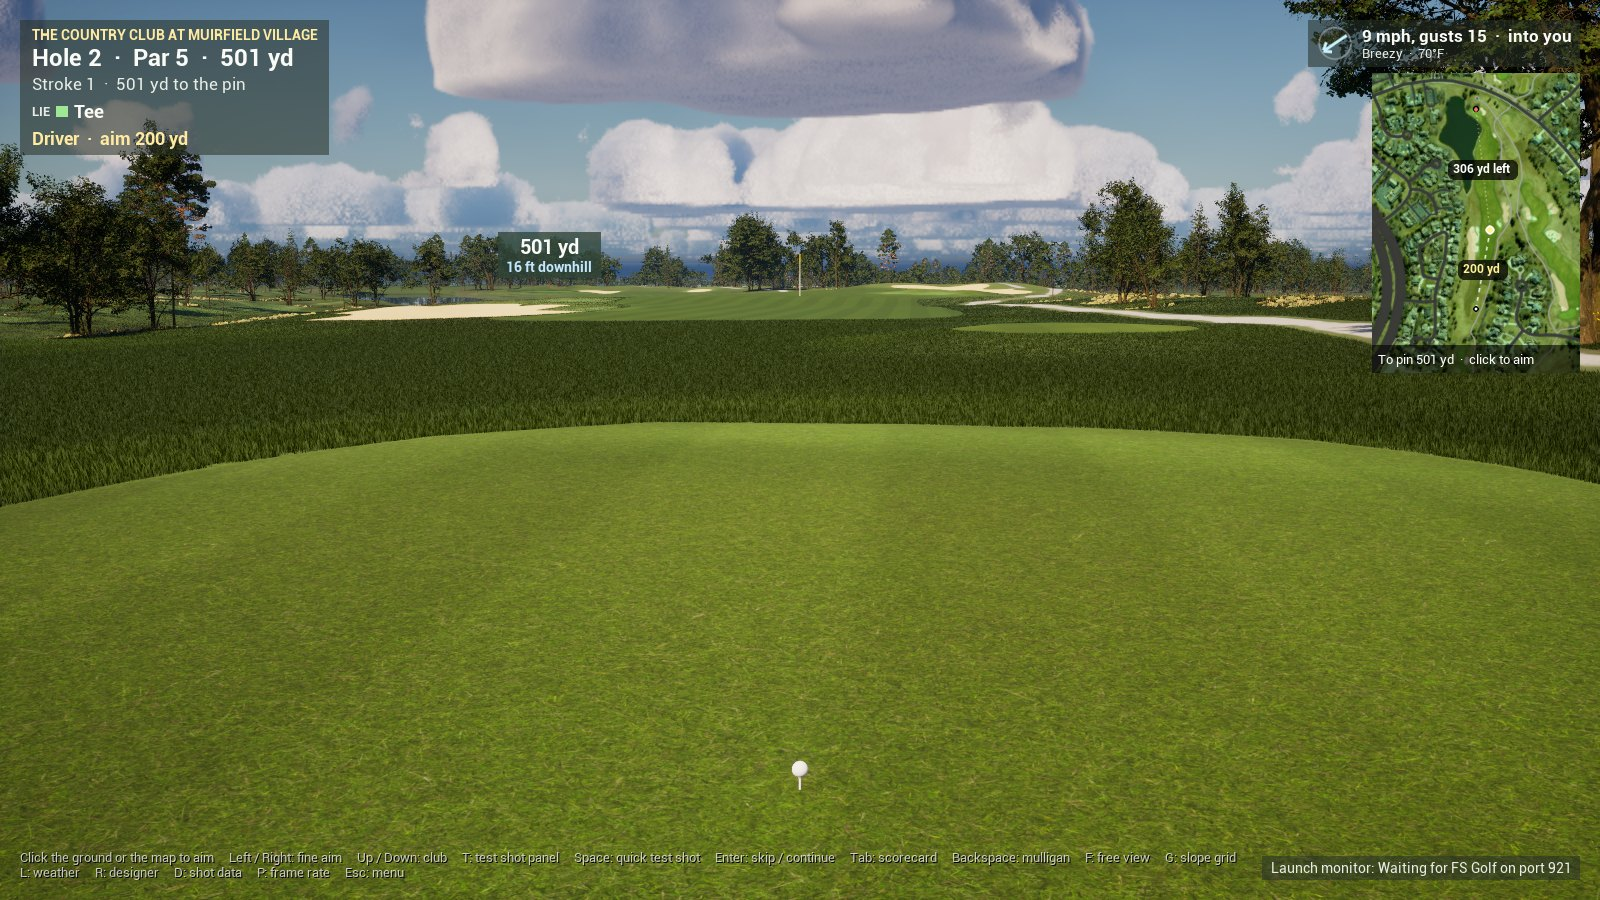
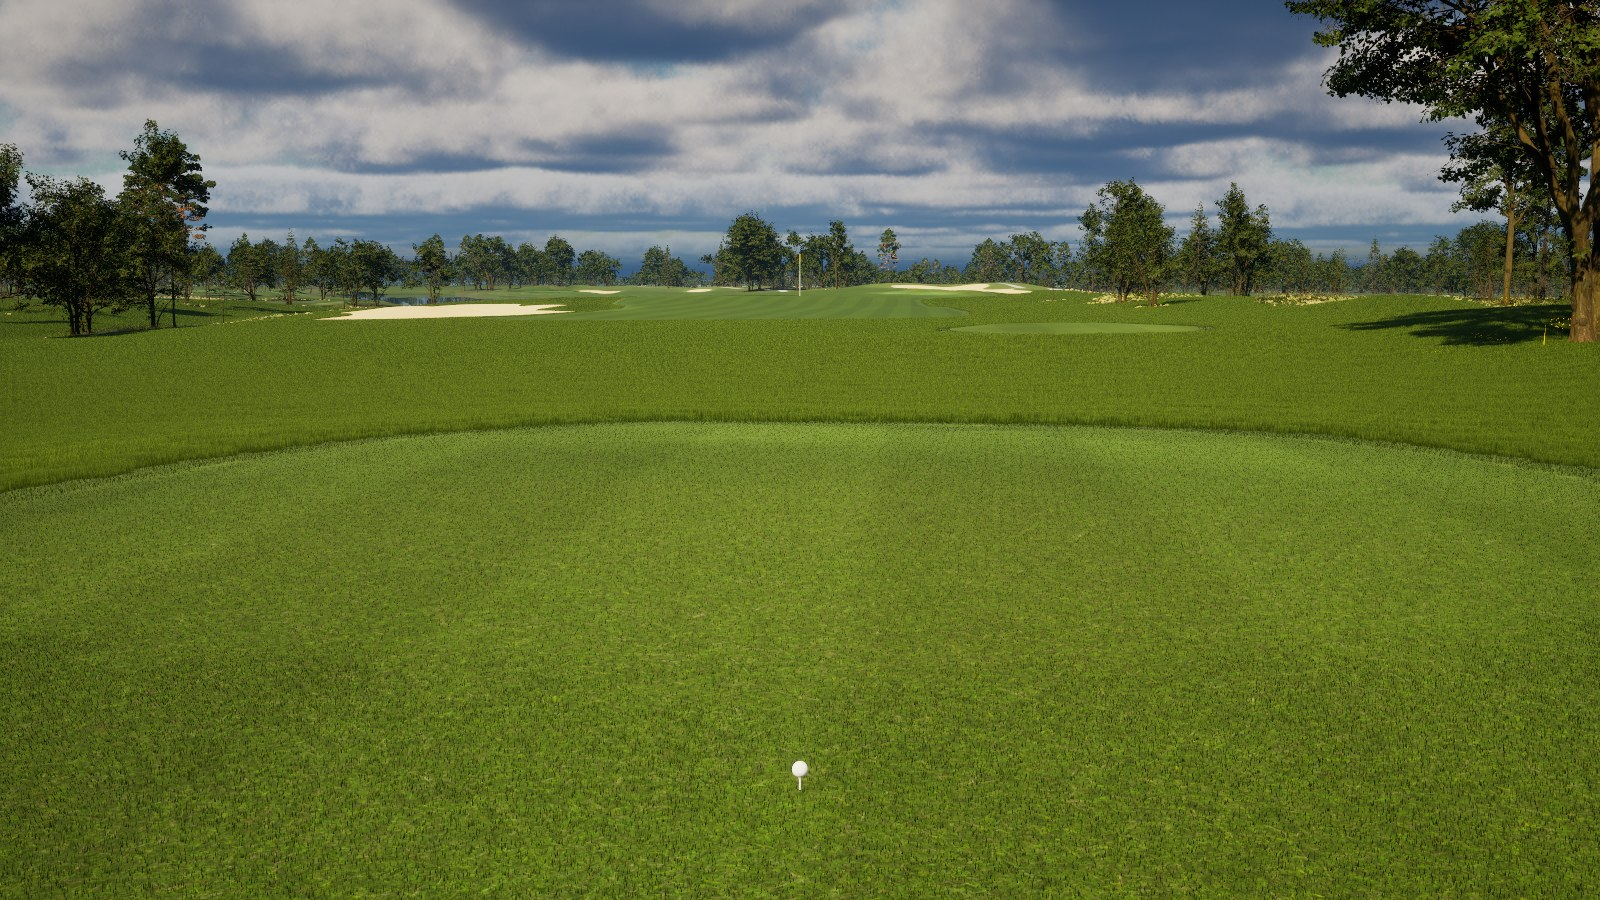
Version 0.19.0: Meridian Sky and Greensward rough
- The sun where it really is over each course at the chosen time of day, new clouds drifting with
  the wind and casting shadows, visible lightning bolts (the Meridian Sky plugin)
- A denser, even-coloured rough with a natural edge at the first cut, collars and bunkers (the
  Greensward plugin)
- Runs as fast as 0.18.0
- Website: 0.19 in Recently added, a new sky screenshot and an evening one

diff --git a/docs/index.html b/docs/index.html
@@ -202,6 +202,7 @@
         <h2>Recently added</h2>
         <p class="sub">OpenTeeGolf is in alpha and changes every week. The <a href="https://github.com/socman1984-hub/OpenTeeGolf/releases">release notes</a> have the full list.</p>
         <ul class="news">
+          <li><b>Unreal edition 0.19: a new sky and rough.</b> The sun now sits where it really is over each course at the time of day you pick, with sunsets that glow across the fairways. New clouds drift with the wind, from fair-weather puffs to a grey overcast deck and storm clouds, and in a storm you can see the lightning. The rough is new too: denser, even-coloured grass with a natural edge where it meets the first cut, the collars and the bunkers. It all runs as fast as before.</li>
           <li><b>Unreal edition 0.18: weather you can feel.</b> Real clouds drifting with the wind and shading the course, rain that greys the far end of the hole and splashes on the ground, a course that gets wet and dries out, storms with lightning and thunder, the sound of rain and wind, and "Changing" weather where showers come and go during the round. New grass, fine and dense, cut to its height from green to rough with crisp mowing lines. The ball now plays differently off every surface: it stops in the rough and bounces and runs on cart paths. Roads and car parks come in from the map.</li>
           <li><b>Unreal edition 0.17.3: your numbers on screen.</b> Ball speed, club speed, smash, launch, spin and more as tiles after each shot; press D to choose which show and where. The course name and the ball's lie in the corner, and over the flag the yardage and how far uphill or downhill it is. The course editor now shows trees taken out in a round, and its changes always reach the game.</li>
           <li><b>Unreal edition 0.17.2: easier to set up and design.</b> A clearer Players page with colour swatches and the chosen hand and tees highlighted. Every course you've built is listed and editable, with "Edit this course" on the Play page. The world map can show or hide built courses, unbuilt ones and search results. In the designer, the tree you click is marked with a gold arrow, "Drawn as" and "Looks like" are drop-down lists, lists keep their place as you change them, and you can recolour the fairways and greens.</li>
@@ -259,7 +260,8 @@
           <figure><img class="shot" src="img/ue-players.jpg?v=0.17.2" width="1600" height="900" loading="lazy" alt="The Players page: two players, each with colour swatches, Right or Left handed, and a row of tee choices with the chosen one highlighted"><figcaption>Players: a colour, a hand and tees for each.</figcaption></figure>
           <figure><img class="shot" src="img/ue-turf.jpg?v=0.17.2" width="1600" height="900" loading="lazy" alt="The grass designer over the first tee, with sliders for the fairway and green colours; the fairway is a golder green and the greens a bluer one"><figcaption>Recolour the fairways and greens as you watch.</figcaption></figure>
           <figure><img class="shot" src="img/ue-tree-pick.jpg?v=0.17.2" width="1600" height="900" loading="lazy" alt="The trees and rocks designer: a red maple picked across the fairway, marked by a gold arrow above it, its species, model and height in the panel"><figcaption>The picked tree, marked with a gold arrow.</figcaption></figure>
-          <figure><img class="shot" src="img/ue-sky.jpg?v=0.18.0" width="1600" height="900" loading="lazy" alt="Muirfield's second tee on a breezy day: big white cumulus clouds with flat grey bases over the tree line and a blue sky"><figcaption>The new sky: real clouds, drifting with the wind.</figcaption></figure>
+          <figure><img class="shot" src="img/ue-sky.jpg?v=0.19.0" width="1600" height="900" loading="lazy" alt="Muirfield Village's second tee on a breezy day: broken white and grey clouds across a blue sky above the tree line, the striped tee in front"><figcaption>The new sky: clouds drifting with the wind.</figcaption></figure>
+          <figure><img class="shot" src="img/ue-sunset.jpg?v=0.19.0" width="1600" height="900" loading="lazy" alt="The same tee at seven in the evening: a low golden sun behind the trees, their long shadows stretching across the fairway"><figcaption>The sun where it really is: evening at Muirfield Village.</figcaption></figure>
           <figure><img class="shot" src="img/ue-storm.jpg?v=0.18.0" width="1600" height="900" loading="lazy" alt="The same tee in a storm: a dark grey sky, rain streaking across, splashes on the wet, darkened tee and the far trees fading into the rain"><figcaption>A storm: wind-blown rain, splashes and a soaked course.</figcaption></figure>
           <figure><img class="shot" src="img/ue-shot-data.jpg?v=0.17.3" width="1600" height="900" loading="lazy" alt="A round at Majestic Springs after a drive: the course name, hole and lie at the top left, the yardage and 14 ft uphill over the flag, and tiles of ball speed, launch, spin, carry and more along the bottom"><figcaption>Your launch monitor's numbers, the lie and the pin's yardage and slope.</figcaption></figure>
           <figure><img class="shot" src="img/ue-range.jpg?v=0.17.0" width="1600" height="900" loading="lazy" alt="The driving range from the hitting mat: striped turf, target greens with flags, yardage boards and mountains beyond"><figcaption>The driving range.</figcaption></figure>

diff --git a/unreal/release/WHATS_NEW.md b/unreal/release/WHATS_NEW.md
@@ -4,6 +4,13 @@ The newest version first. The game shows this on its What's new page. make_relea
 OpenTeeGolf.exe, and publish_release.py puts each version's part on its GitHub release.
 A version's heading is "## <version> - <date>", and its changes are "- " lines under it.
 
+## 0.19.0 - 17 November 2026
+- A new sky (Meridian Sky): the sun sits where it really is over each course at the time of day you pick, so every course gets its own light, and evening rounds end in a golden sunset.
+- New clouds, from a few fair-weather puffs to a grey overcast deck and dark storm clouds, drifting with the wind and casting their shadows across the course.
+- Storms: you can now see the lightning bolts, and the thunder follows.
+- New rough (Greensward): denser, even-coloured grass that meets the first cut, the collars and the bunkers with a natural ragged edge.
+- Runs as fast as before, and on some courses a little faster.
+
 ## 0.18.0 - 17 November 2026
 - A new sky: real clouds that drift with the wind - a few fair-weather clouds, big heaped cumulus, a grey overcast layer, dark storm clouds - and their shadows move across the course.
 - Rain looks like rain: a grey sky, thinner drops, splashes on the ground, rings on the ponds, and grey curtains of rain over the far end of the hole.
